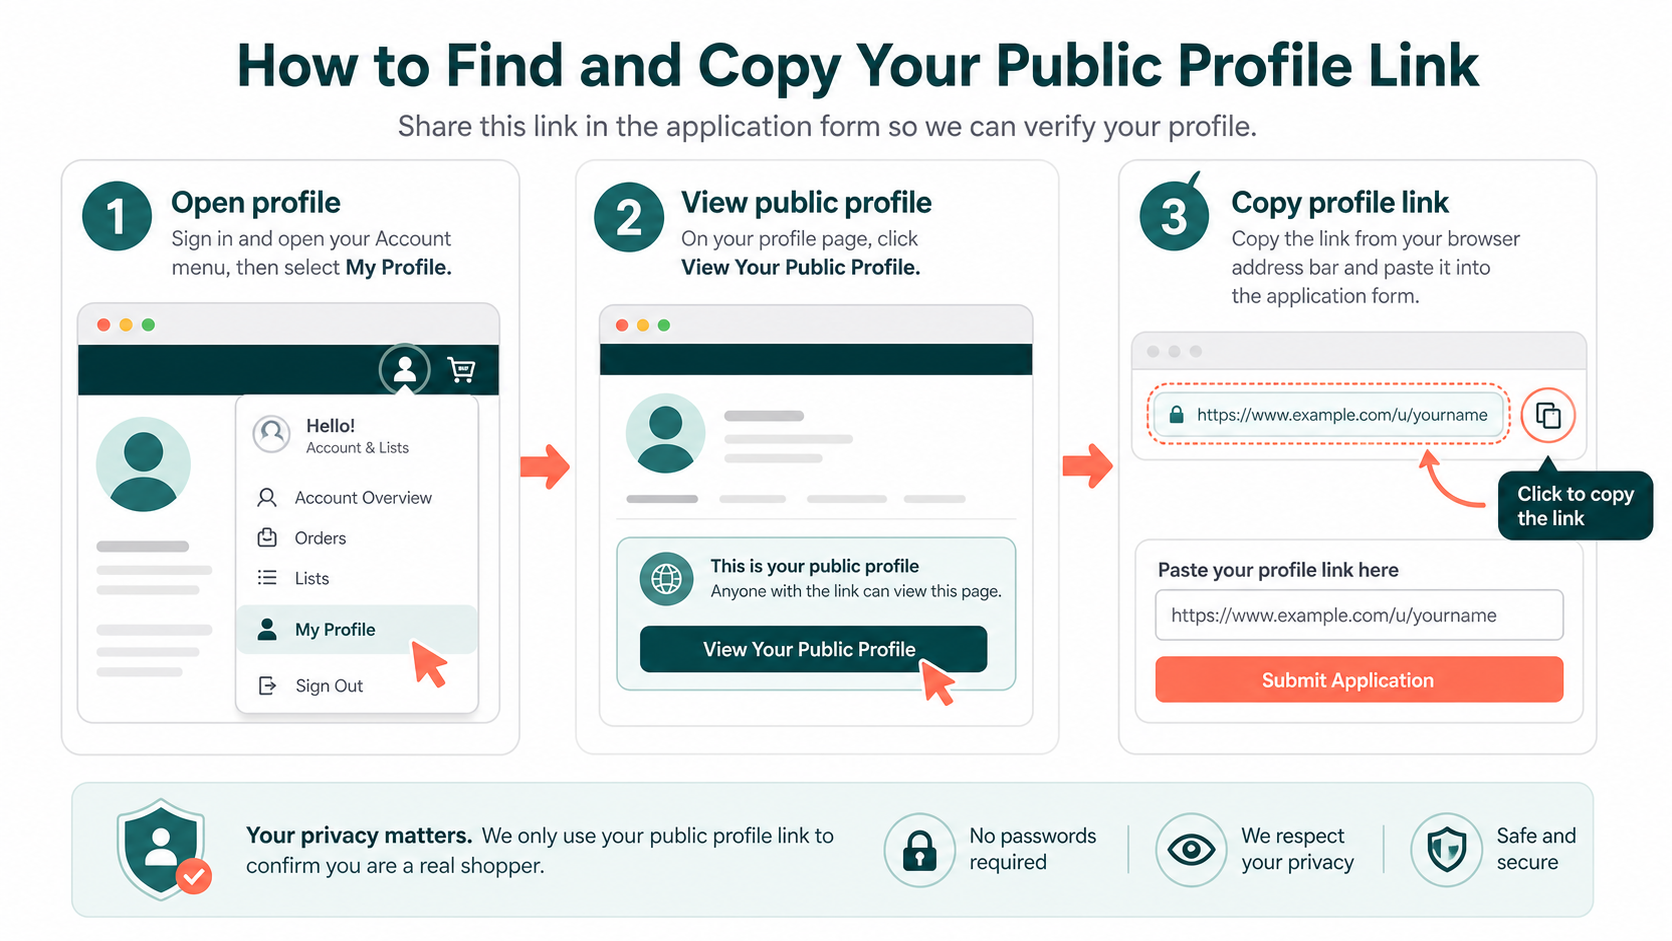
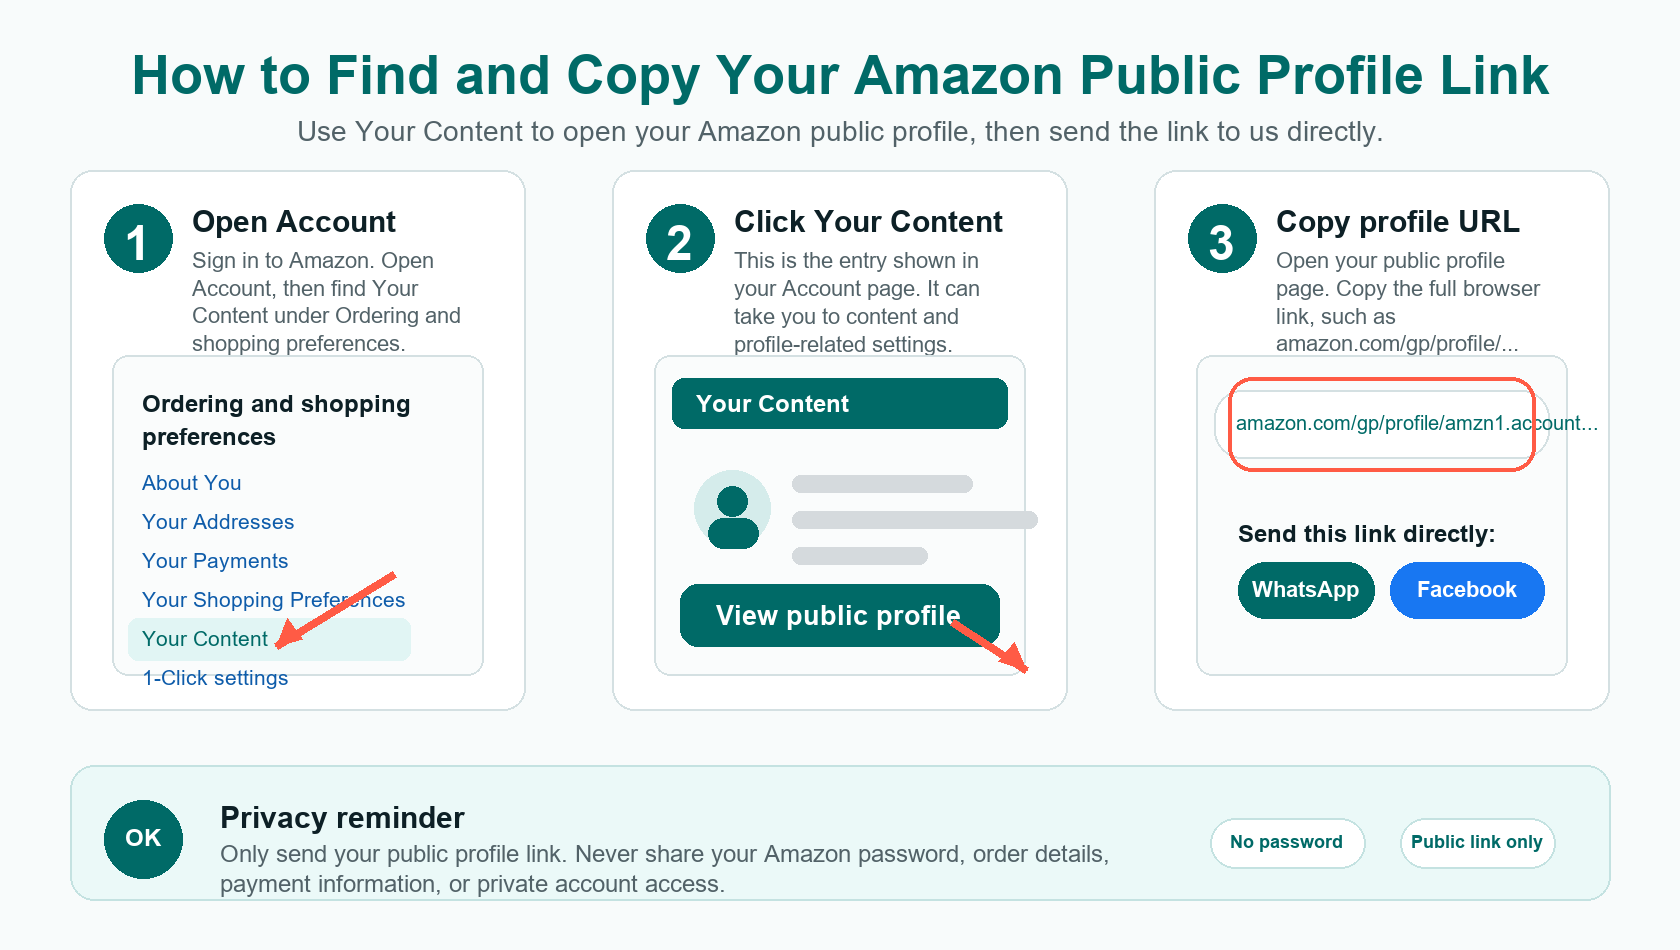
Update Amazon profile guide

diff --git a/index.html b/index.html
@@ -248,9 +248,9 @@
               so we can verify you are a real Amazon shopper. Do not send your password, order details, or payment information.
             </p>
             <ol class="profile-steps">
-              <li>Sign in to Amazon and open <a href="https://www.amazon.com/gp/profile" target="_blank" rel="noreferrer">amazon.com/gp/profile</a>.</li>
-              <li>If that does not open directly, go to Account and look for Your Profile.</li>
-              <li>Open your public profile page, copy the browser address, and send that link to us.</li>
+              <li>Sign in to Amazon, open <strong>Account</strong>, then find <strong>Your Content</strong> under Ordering and shopping preferences.</li>
+              <li>From Your Content, open your Amazon public profile page. The link usually looks like <strong>amazon.com/gp/profile/...</strong>.</li>
+              <li>Copy the full browser address and send that profile link to us directly through WhatsApp or Facebook.</li>
             </ol>
           </div>
           <img src="./assets/amazon-profile-guide.png" alt="How to find and copy an Amazon public profile link" />